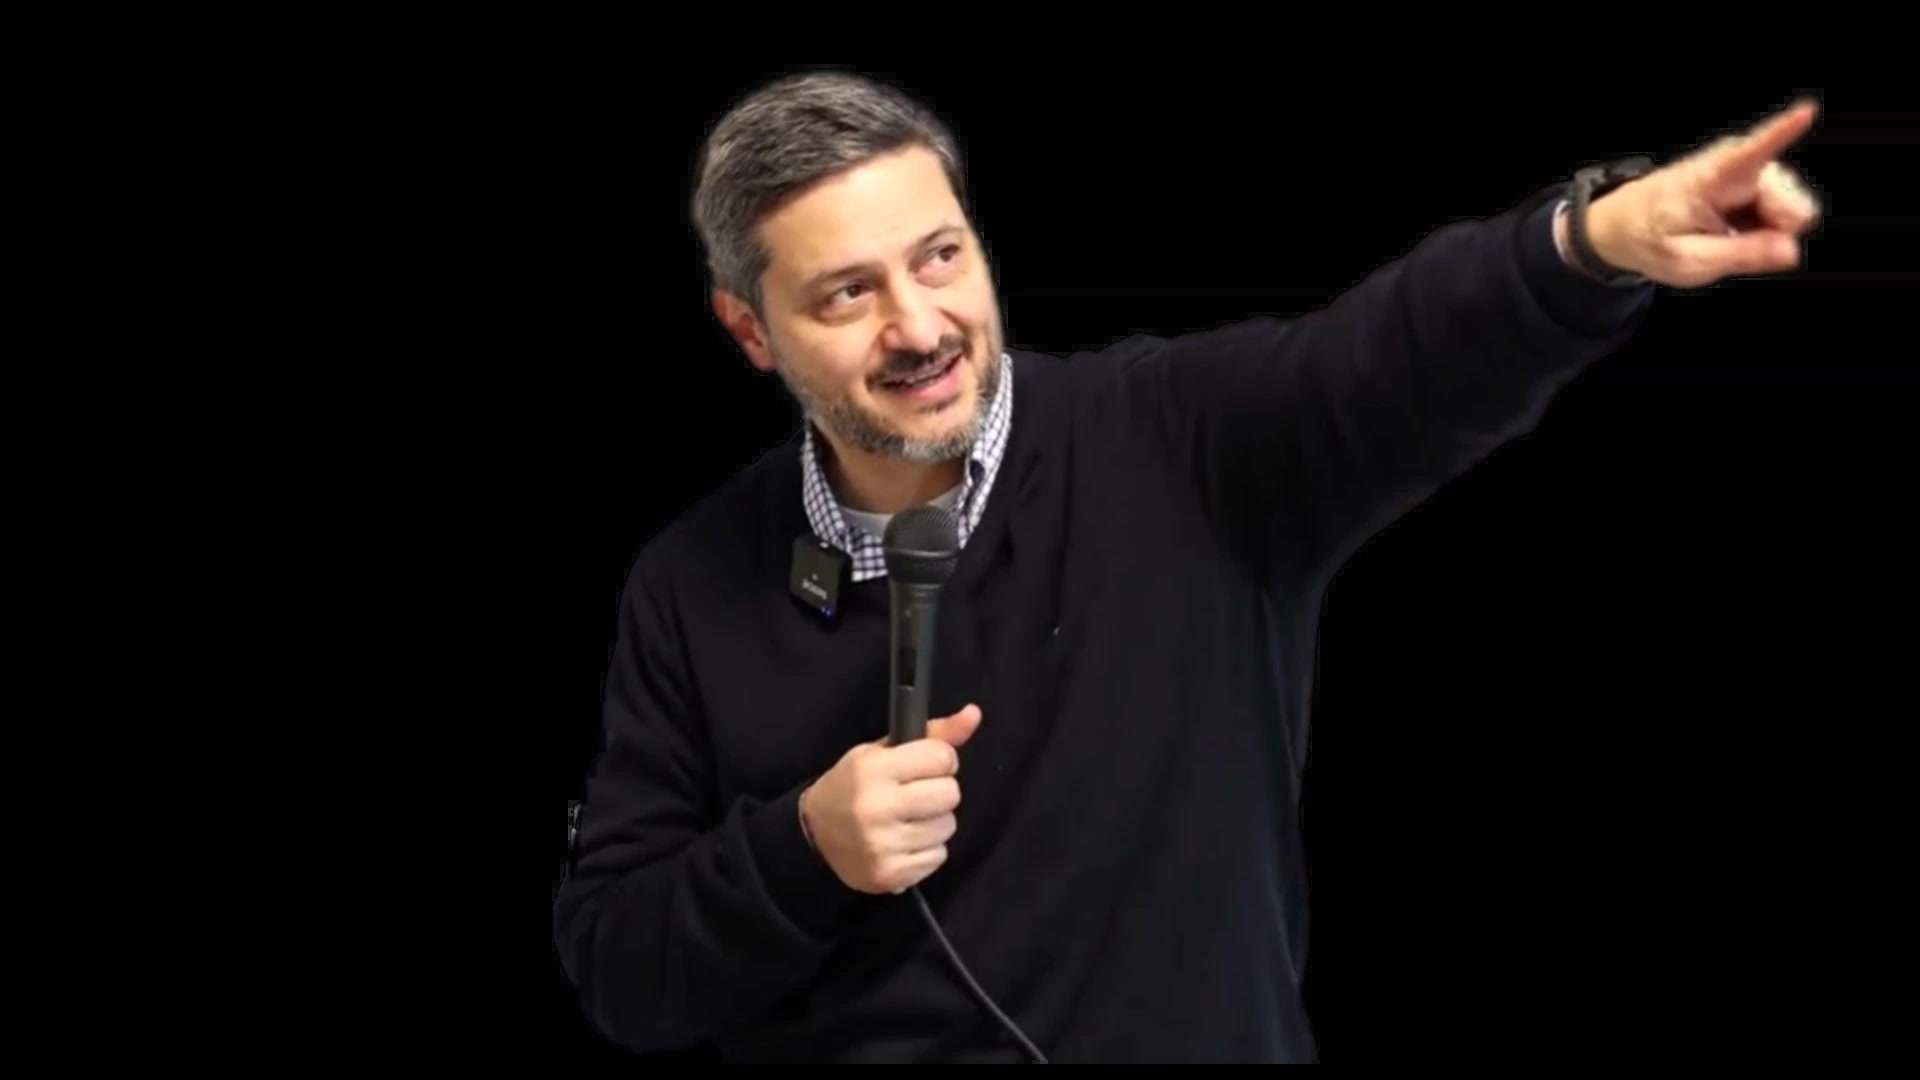
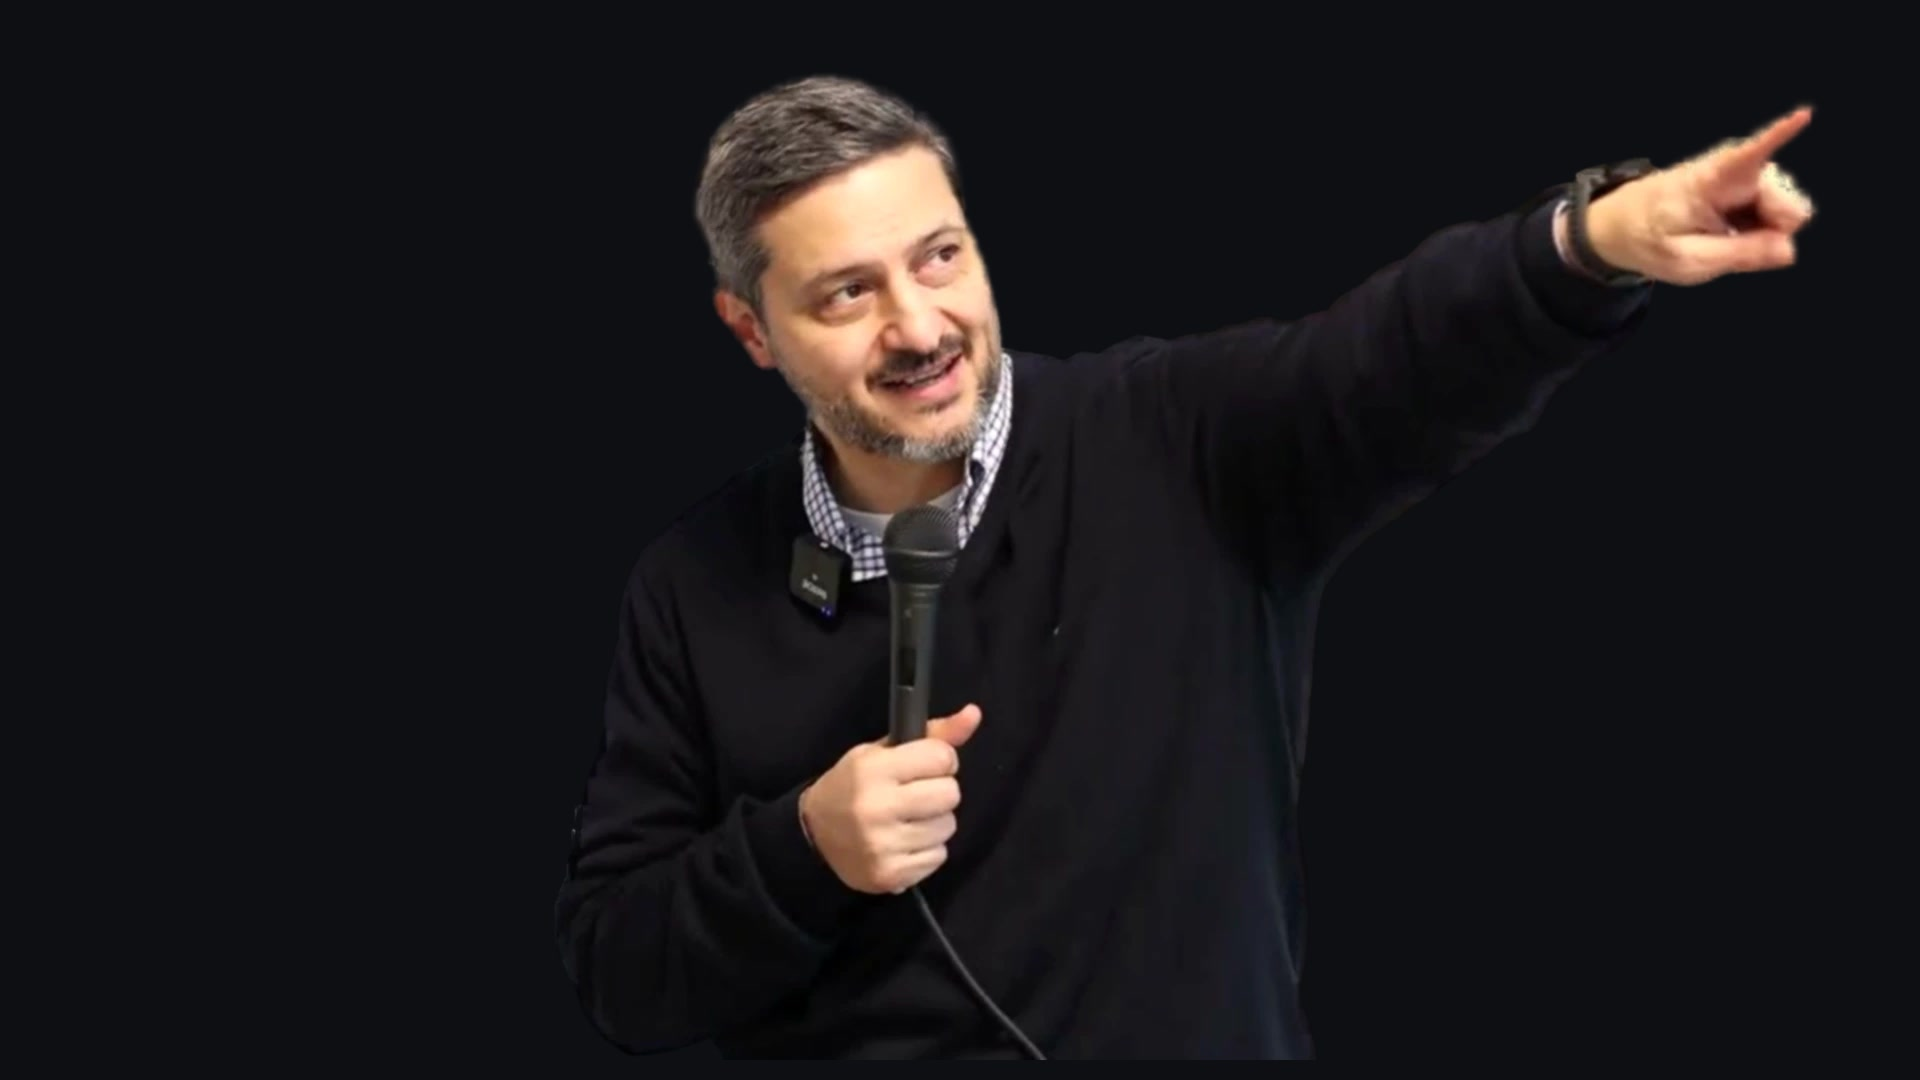
fix: make the tag mosaic read as squares on desktop and mobile
Keep the hero near 16:9 so the speaker stays in frame, draw gold square seams, fill leftover cells with photo tiles, and lighten the home nav icons.

diff --git a/assets/css/main.scss b/assets/css/main.scss
@@ -70,8 +70,20 @@
 .layout--home .masthead__dropdown-toggle,
 .layout--home .site-title,
 .layout--home .page__footer a,
-.layout--home .page__footer {
+.layout--home .page__footer,
+.layout--home .search__toggle {
   color: #f4f1ea;
+}
+
+.layout--home .navicon,
+.layout--home .navicon::before,
+.layout--home .navicon::after {
+  background: #f4f1ea;
+}
+
+.layout--home .masthead {
+  overflow: visible;
+  z-index: 50;
 }
 
 .layout--home {
@@ -119,7 +131,7 @@
   position: absolute;
   inset-inline-end: 0;
   top: 100%;
-  z-index: 40;
+  z-index: 80;
 }
 
 .masthead__dropdown a {
@@ -170,8 +182,9 @@
   position: relative;
   max-width: 1180px;
   margin: 0 auto;
+  max-height: min(78vh, 720px);
   aspect-ratio: 16 / 9;
-  background: #fff;
+  background: #0d0f14;
   overflow: hidden;
   box-shadow: 0 24px 60px rgba(0, 0, 0, 0.35);
 }
@@ -192,18 +205,29 @@
   display: grid;
   grid-template-columns: repeat(var(--puzzle-cols), 1fr);
   grid-template-rows: repeat(var(--puzzle-rows), 1fr);
+  gap: 2px;
+  background: #0d0f14;
   position: absolute;
   inset: 0;
   width: 100%;
 }
 
-.hero-puzzle__piece {
+.hero-puzzle__piece,
+.hero-puzzle__filler {
   display: block;
   min-width: 0;
   min-height: 0;
   margin: 0;
+  box-shadow: 0 0 0 1px rgba(201, 162, 39, 0.9);
+}
+
+.hero-puzzle__piece {
   perspective: 700px;
   z-index: 1;
+}
+
+.hero-puzzle__filler {
+  pointer-events: none;
 }
 
 .hero-puzzle__inner {
@@ -217,7 +241,7 @@
 
 .hero-puzzle__face {
   position: absolute;
-  inset: 1px;
+  inset: 0;
   backface-visibility: hidden;
   -webkit-backface-visibility: hidden;
 }
@@ -246,6 +270,10 @@
 
 .hero-puzzle__piece.is-flipped .hero-puzzle__inner {
   transform: rotateY(180deg) scale(1.18);
+}
+
+.hero-puzzle__piece[data-span="1"].is-flipped .hero-puzzle__inner {
+  transform: rotateY(180deg) scale(2.1);
 }
 
 .hero-puzzle__piece:focus-visible {

diff --git a/assets/js/hero-puzzle.js b/assets/js/hero-puzzle.js
@@ -84,13 +84,25 @@
       }
     });
 
+    var fillers = [];
+    for (var fr = 0; fr < rows; fr += 1) {
+      for (var fc = 0; fc < cols; fc += 1) {
+        if (!occupied(fr, fc)) {
+          fillers.push({ col: fc, row: fr, span: 1 });
+          mark(fr, fc, 1);
+        }
+      }
+    }
+    items.fillers = fillers;
+
     return rows;
   }
 
-  function columnCount(width) {
-    if (width < 520) return 14;
-    if (width < 800) return 20;
-    return 26;
+  function columnCount() {
+    var cells = pieces.reduce(function (sum, piece) {
+      return sum + piece.span * piece.span;
+    }, 0);
+    return Math.max(18, Math.round(Math.sqrt(cells * (16 / 9))));
   }
 
   var nodes = [];
@@ -110,7 +122,7 @@
   }
 
   function render() {
-    var cols = columnCount(frame.clientWidth || root.clientWidth || 960);
+    var cols = columnCount();
     var rows = pack(pieces, cols);
     frame.style.aspectRatio = cols + " / " + rows;
     board.style.setProperty("--puzzle-cols", String(cols));
@@ -144,6 +156,18 @@
       link.appendChild(inner);
       board.appendChild(link);
       nodes.push(link);
+    });
+
+    (pieces.fillers || []).forEach(function (filler) {
+      var cell = document.createElement("span");
+      cell.className = "hero-puzzle__filler";
+      cell.style.gridColumn = filler.col + 1 + " / span " + filler.span;
+      cell.style.gridRow = filler.row + 1 + " / span " + filler.span;
+      var front = document.createElement("span");
+      front.className = "hero-puzzle__face hero-puzzle__face--front";
+      cell.appendChild(front);
+      board.appendChild(cell);
+      nodes.push(cell);
     });
 
     window.requestAnimationFrame(paintBackgrounds);
